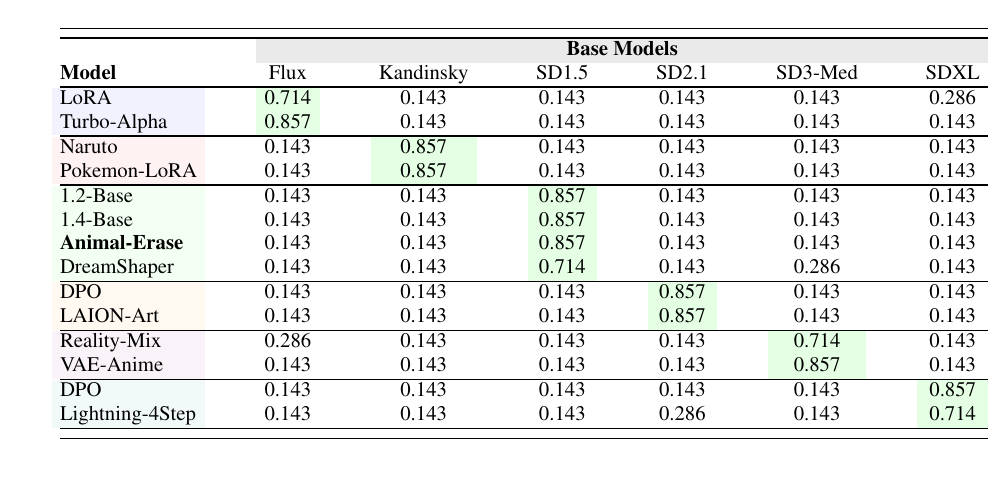
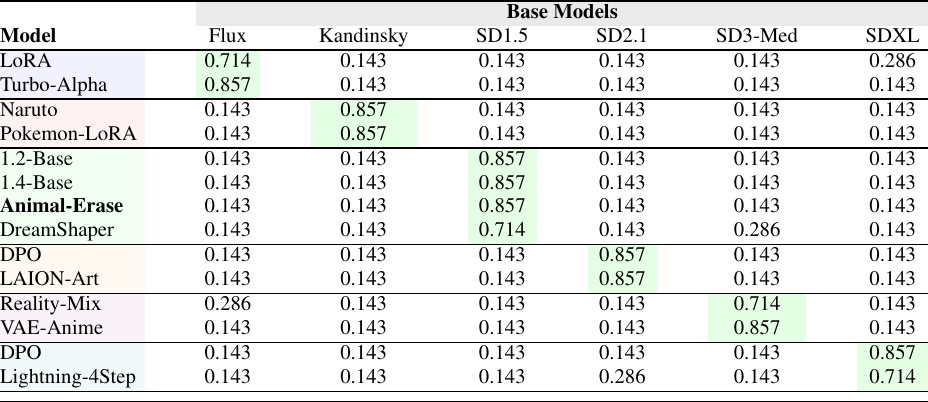
Tighten CSF figures and table layout

Changed region(s): [[0.0, 0.0, 1.0, 1.0]]

diff --git a/app/csf/CSFProjectPage.tsx b/app/csf/CSFProjectPage.tsx
@@ -508,14 +508,14 @@ export default function CSFPage() {
         </section>
 
         <section className="hero teaser">
-          <div className="container is-max-desktop">
+          <div className="container is-max-figure">
             <div className="hero-body">
               <figure className="teaser-media">
                 <Image
                   src="/csf/comparison.png"
                   alt="Comparison between watermarking, traditional fingerprinting, and CSF in the query-only setting"
-                  width={1064}
-                  height={744}
+                  width={1120}
+                  height={780}
                   priority
                 />
               </figure>
@@ -555,52 +555,31 @@ export default function CSFPage() {
         </section>
 
         <section className="section hero is-light">
-          <div className="container is-max-desktop">
+          <div className="container is-max-quant">
             <h2 className="title is-3 has-text-centered">
               Quantitative Results
             </h2>
-            <p className="section-copy has-text-centered">
-              CSF attributes 13 fine-tuned variants across 6 protected base
-              families using only query access, and the reported posterior
-              means remain stable even under adversarial concept removal.
-            </p>
-
-            <div className="summary-strip" aria-label="Benchmark summary">
-              <span className="summary-chip">6 model families</span>
-              <span className="summary-chip">13 fine-tuned variants</span>
-              <span className="summary-chip">42 compositional prompts</span>
-              <span className="summary-chip">query-only attribution</span>
-            </div>
 
             <div className="table-stack">
               <TableImageCard
-                eyebrow="Main Attribution Matrix"
-                title="Posterior mean over the full benchmark."
-                description="Posterior means across all 13 fine-tuned suspects and 6 candidate base families."
                 src="/csf/results-main-table.png"
                 alt="Main posterior mean attribution table across fine-tuned models and candidate base families"
-                width={2330}
-                height={920}
+                width={1770}
+                height={863}
               />
 
               <TableImageCard
-                eyebrow="Metric Comparison"
-                title="Wasserstein vs. JSD."
-                description="Confidence margins on hard variants remain wider with Wasserstein than with the JSD baseline."
                 src="/csf/results-metric-table.png"
                 alt="Wasserstein versus JSD attribution confidence comparison table"
-                width={1200}
-                height={325}
+                width={1250}
+                height={530}
               />
 
               <TableImageCard
-                eyebrow="Robustness Ablation"
-                title="Adversarial concept removal."
-                description="Even after removing animal-related concepts with UCE, the strongest attribution score still lands on the correct base family."
                 src="/csf/results-ablation-table.png"
                 alt="Attribution results under adversarial concept removal across candidate base models"
-                width={1090}
-                height={480}
+                width={928}
+                height={402}
               />
             </div>
           </div>
@@ -683,6 +662,14 @@ export default function CSFPage() {
 
         .csf-page .container.is-max-desktop {
           max-width: 960px;
+        }
+
+        .csf-page .container.is-max-figure {
+          max-width: 1180px;
+        }
+
+        .csf-page .container.is-max-quant {
+          max-width: 1360px;
         }
 
         .csf-page .hero {
@@ -853,36 +840,6 @@ export default function CSFPage() {
           margin-top: 1.25rem;
         }
 
-        .csf-page .section-copy {
-          max-width: 760px;
-          margin: 1rem auto 0;
-          color: #475569;
-          font-size: 1.02rem;
-          line-height: 1.8;
-        }
-
-        .csf-page .summary-strip {
-          margin-top: 1.5rem;
-          display: flex;
-          flex-wrap: wrap;
-          justify-content: center;
-          gap: 0.75rem;
-        }
-
-        .csf-page .summary-chip {
-          display: inline-flex;
-          align-items: center;
-          border-radius: 999px;
-          border: 1px solid #cbd5e1;
-          background: #ffffff;
-          padding: 0.55rem 0.95rem;
-          font-size: 0.86rem;
-          font-weight: 700;
-          letter-spacing: 0.08em;
-          text-transform: uppercase;
-          color: #475569;
-        }
-
         .csf-page .results-grid {
           margin-top: 2rem;
           display: grid;
@@ -906,7 +863,7 @@ export default function CSFPage() {
         }
 
         .csf-page .table-image-frame {
-          margin-top: 1rem;
+          margin-top: 0;
           overflow: visible;
           border: 0;
           border-radius: 0;
@@ -934,38 +891,13 @@ export default function CSFPage() {
         }
 
         .csf-page .table-stack {
-          margin-top: 2rem;
+          margin-top: 2.25rem;
           display: grid;
-          gap: 2.4rem;
+          gap: 1.8rem;
         }
 
         .csf-page .table-panel {
           padding: 0;
-        }
-
-        .csf-page .table-eyebrow {
-          margin: 0;
-          font-size: 0.78rem;
-          font-weight: 800;
-          letter-spacing: 0.18em;
-          text-transform: uppercase;
-          color: #64748b;
-        }
-
-        .csf-page .table-title {
-          margin: 0.55rem 0 0;
-          font-size: 1.55rem;
-          font-weight: 800;
-          line-height: 1.28;
-          color: #111827;
-        }
-
-        .csf-page .table-description {
-          margin: 0.8rem 0 0;
-          max-width: 820px;
-          color: #475569;
-          font-size: 0.98rem;
-          line-height: 1.75;
         }
 
         .csf-page .legend-row {
@@ -1267,10 +1199,6 @@ export default function CSFPage() {
             margin: 0.75rem 0 0;
           }
 
-          .csf-page .table-panel {
-            padding: 1.1rem;
-          }
-
           .csf-page .pdf-shell iframe {
             height: 560px;
           }
@@ -1333,32 +1261,22 @@ function FigureCard({
 }
 
 function TableImageCard({
-  eyebrow,
-  title,
-  description,
   src,
   alt,
   width,
   height,
 }: {
-  eyebrow: string;
-  title: string;
-  description: string;
   src: string;
   alt: string;
   width: number;
   height: number;
 }) {
   return (
-    <div className="table-panel">
-      <p className="table-eyebrow">{eyebrow}</p>
-      <h3 className="table-title">{title}</h3>
-      <p className="table-description">{description}</p>
-
+    <figure className="table-panel">
       <div className="result-figure table-image-frame">
         <Image src={src} alt={alt} width={width} height={height} />
       </div>
-    </div>
+    </figure>
   );
 }
 
